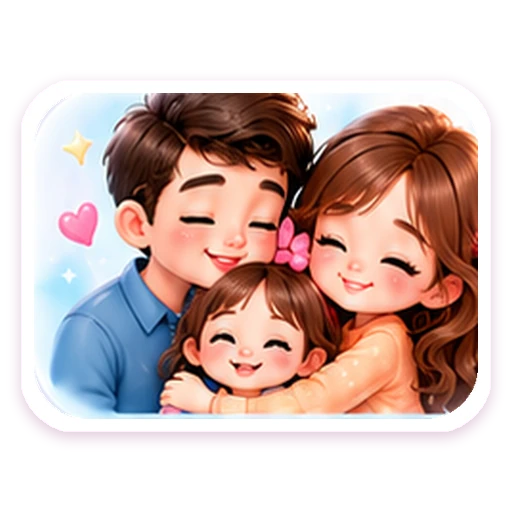
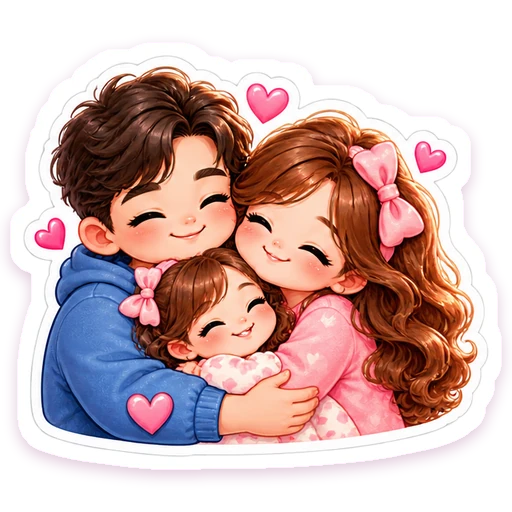
Family Love: use the owner's 5 stickers from a transparent sheet
Love You Mom, Family, Love You Dad, Family Hug and Home Sweet Home replace the
generated versions of the same stickers. cut_png can now pick one sticker from
a transparent sheet (index, reading order).

Claude-Session: https://claude.ai/code/session_01HFDEQ91mwXQ77VBhcg7bMb

diff --git a/Tools/generate_assets.py b/Tools/generate_assets.py
@@ -89,9 +89,10 @@ def art(box, emojis, name, keywords=""):
     return {"kind": "art", "box": box, "emojis": emojis.split(), "name": name, "keywords": keywords}
 
 
-def png(file, emojis, name, keywords, label=None, description=None):
-    """A single sticker drawn on a transparent background, stored in Design/."""
-    return {"kind": "png", "file": file, "emojis": emojis.split(), "name": name,
+def png(file, emojis, name, keywords, label=None, description=None, index=None):
+    """A sticker drawn on a transparent background, stored in Design/. For a transparent
+    sheet holding several stickers, `index` picks one (reading order, 0-based)."""
+    return {"kind": "png", "file": file, "index": index, "emojis": emojis.split(), "name": name,
             "keywords": keywords, "label": label, "description": description}
 
 
@@ -227,9 +228,14 @@ PACKS = [
         "tint": "#4C97E8", "top": "#E0EEFF", "bottom": "#F2F8FF", "ink": ["#7CB8FF", "#3D7FE0"],
         "tray": "House with garden",
         "stickers": [
-            art(BANNER_BOXES["family"], "👨👩👧 🤗", "Family Hug", "family hug mom dad"),
+            png("Family/sheet-1.png", "👩 ❤", "Love You Mom", "love you mom mother mum", label="Love you Mom", index=0),
+            png("Family/sheet-1.png", "👨👩👧 ❤", "Family", "family love heart", label="Family", index=1),
+            png("Family/sheet-1.png", "👨 💙", "Love You Dad", "love you dad father", label="Love you Dad", index=2),
+            png("Family/sheet-1.png", "👨👩👧 🤗", "Family Hug", "family hug mom dad",
+                description="Mom, dad and their little girl hugging with smiles and hearts", index=3),
+            png("Family/sheet-1.png", "🏡 💕", "Home Sweet Home", "home sweet home house",
+                label="Home Sweet Home", index=4),
             emoji("House with garden", "🏡", "Home", "home house family"),
-            text("Family", "👨👩👧 ❤", "Family", "family love", style="heart"),
             emoji("Bouquet", "💐", "Bouquet", "flowers bouquet mom"),
             emoji("Light blue heart", "🩵", "Blue Heart", "love heart blue"),
             emoji("Sunflower", "🌻", "Sunflower", "flower sunshine"),
@@ -239,9 +245,6 @@ PACKS = [
             emoji("Baby angel", "👼", "Little Angel", "baby angel cute", skin=True),
             emoji("Teapot", "🫖", "Tea Time", "tea family time"),
             emoji("Hibiscus", "🌺", "Hibiscus", "flower"),
-            text("Love You\nMom", "👩 ❤", "Love You Mom", "mom mother mum love"),
-            text("Love You\nDad", "👨 ❤", "Love You Dad", "dad father love"),
-            text("Home Sweet\nHome", "🏡", "Home Sweet Home", "home sweet home"),
         ],
     },
     {
@@ -521,9 +524,28 @@ def painted_checkerboard_alpha(rgb: np.ndarray) -> np.ndarray:
     return np.where(sticker, 255, 0).astype(np.uint8)
 
 
-def cut_png(file: str) -> Image.Image:
+def reading_order(boxes) -> list[int]:
+    """Indices of (left, top, right, bottom) boxes, top row first, left to right in a row."""
+    heights = sorted(b[3] - b[1] for b in boxes)
+    row_gap = heights[len(heights) // 2] / 2
+    by_y = sorted(range(len(boxes)), key=lambda i: (boxes[i][1] + boxes[i][3]) / 2)
+    rows, current, row_y = [], [], None
+    for i in by_y:
+        y = (boxes[i][1] + boxes[i][3]) / 2
+        if current and y - row_y > row_gap:
+            rows.append(current)
+            current = []
+        if not current:
+            row_y = y
+        current.append(i)
+    rows.append(current)
+    return [i for row in rows for i in sorted(row, key=lambda i: boxes[i][0])]
+
+
+def cut_png(file: str, index: int | None = None) -> Image.Image:
     """Cleans a transparent sticker PNG: drops specks and the faint halo that background
-    removal leaves around the edge, then crops to the sticker."""
+    removal leaves around the edge, then crops to the sticker. With `index`, the file is a
+    transparent sheet and only that sticker (reading order) is returned."""
     img = Image.open(DESIGN / file).convert("RGBA")
     pixels = np.asarray(img).copy()
     if pixels[..., 3].min() == 255:
@@ -532,7 +554,16 @@ def cut_png(file: str) -> Image.Image:
     solid = alpha > 128
     labels, count = ndimage.label(solid)
     sizes = ndimage.sum(solid, labels, range(1, count + 1))
-    body = np.isin(labels, [i + 1 for i in range(count) if sizes[i] >= 0.002 * sizes.max()])
+    keep = [i + 1 for i in range(count) if sizes[i] >= 0.002 * sizes.max()]
+    if index is not None:
+        bodies = [i for i in keep if sizes[i - 1] >= 0.05 * sizes.max()]
+        slices = ndimage.find_objects(labels)
+        boxes = [(slices[i - 1][1].start, slices[i - 1][0].start, slices[i - 1][1].stop, slices[i - 1][0].stop)
+                 for i in bodies]
+        target = bodies[reading_order(boxes)[index]]
+        near = ndimage.distance_transform_edt(labels != target) <= 20
+        keep = [i for i in keep if i == target or (i not in bodies and (near & (labels == i)).any())]
+    body = np.isin(labels, keep)
     pixels[..., 3] = np.where(ndimage.binary_dilation(body, iterations=3), alpha, 0)
     out = Image.fromarray(pixels)
     return out.crop(out.getbbox())
@@ -715,7 +746,7 @@ def main() -> None:
                 img = text_sticker(spec, pack)
                 source = "Text sticker, Fredoka font (OFL)"
             elif spec["kind"] == "png":
-                img = die_cut(cut_png(spec["file"]), margin=SHEET_MARGIN)
+                img = die_cut(cut_png(spec["file"], spec.get("index")), margin=SHEET_MARGIN)
                 source = f"Owner artwork ({spec['file']})"
             elif spec["kind"] == "grid":
                 img = die_cut(cut_grid(spec["file"], spec["rows"])[spec["index"]], margin=SHEET_MARGIN)

diff --git a/README.md b/README.md
@@ -10,7 +10,7 @@ and other chat apps. The project also includes an iMessage sticker app and an
 | Love | 20 (from your two Love sticker sheets) |
 | Friendship | 21 (your own artwork) |
 | Sisters | 21 (your own artwork) |
-| Family Love | 15 |
+| Family Love | 15 (5 of them your own artwork) |
 | Feelings & Emotions | 16 |
 | Self-Love & Self-Care | 16 |
 
@@ -125,4 +125,4 @@ WhatsApp warns that Xcode's PNG optimization can break its size limits.
   - Your bundle ID must not contain `WA.WAStickersThirdParty`.
 - **Artwork credits** are in [THIRD_PARTY_NOTICES.md](THIRD_PARTY_NOTICES.md):
   Microsoft Fluent Emoji (MIT) and the Fredoka font (OFL). The character
-  pictures, the 20 Love, 21 Friendship and 21 Sisters stickers come from your own designs.
+  pictures, the 20 Love, 21 Friendship, 21 Sisters and 5 Family stickers come from your own designs.

diff --git a/THIRD_PARTY_NOTICES.md b/THIRD_PARTY_NOTICES.md
@@ -1,7 +1,7 @@
 # Third-party notices
 
 The 20 Love stickers (`Design/Love-sheet-1.png`, `Design/Love-sheet-2.png`), the 21 Friendship
-stickers (`Design/Friendship/`), the 21 Sisters stickers (`Design/Sisters/`) and the
+stickers (`Design/Friendship/`), the 21 Sisters stickers (`Design/Sisters/`), the 5 Family stickers (`Design/Family/`) and the
 landing page and icon artwork were supplied by the app owner.
 
 ## Fluent Emoji (Microsoft)
